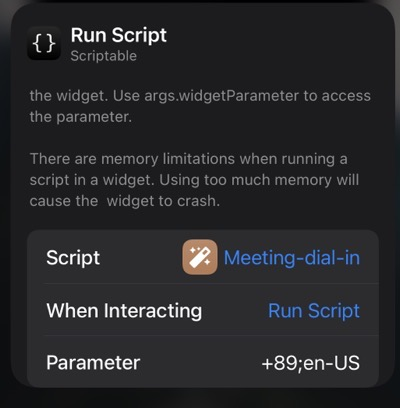
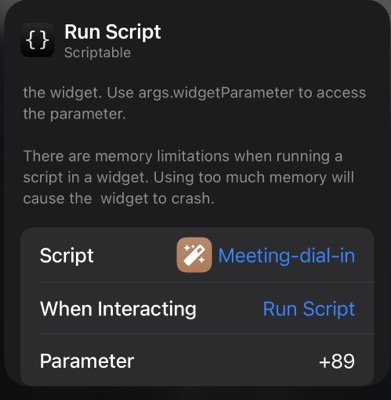
set locale via device local

diff --git a/Meeting-dial-in/Meeting-dial-in.js b/Meeting-dial-in/Meeting-dial-in.js
@@ -1,7 +1,7 @@
 // Variables used by Scriptable.
 // These must be at the very top of the file. Do not edit.
 // icon-color: light-brown; icon-glyph: magic;
-// Version 0.1.0 Beta-Version
+// Version 0.1.1 Beta-Version
 
 /****************************
 Notice
@@ -11,8 +11,8 @@ The search pattern list must be constantly expanded.
 If the dial-in data of a meeting should not be recognized, the invitation can be provided under https://github.com/ThisIsBenny/iOS-Widgets/issues/21, so that the list of search patterns can be extended.
 
 *****************************/
-
-let timeformat, countryCode
+let countryCode
+let timeformat = Device.locale().replace('_', '-')
 
 let widgetInputRAW = args.widgetParameter;
 let widgetInput = null;
@@ -20,13 +20,11 @@ let widgetInput = null;
 if (widgetInputRAW) {
   widgetInput = widgetInputRAW.toString().split(';')
   countryCode = widgetInput[0]
-  timeformat = widgetInput[1] || 'de-DE'
   if (/^\+[\d]{1,3}$/.test(countryCode) === false) {
     throw new Error('Invalid format of country code: ' + countryCode);
   }
 } else {
   countryCode = '+49'
-  timeformat = 'de-DE'
 }
 
 const listLimit = (config.widgetFamily == 'medium') ? 1 : 5;
@@ -41,6 +39,7 @@ if (Device.isUsingDarkAppearance()) {
 let now = new Date()
 let end = new Date()
 end.setHours(23, 59, 59, 999);
+end.setDate(31)
 
 const matchPatterns = {
   skype: {

diff --git a/Meeting-dial-in/README.md b/Meeting-dial-in/README.md
@@ -15,11 +15,6 @@ The following services are currently supported:
 Via the widget parameters the country code has to be set. This code has to start with a +. Example: +49
 The country code is needed in case several international phone numbers are found (please check notice 1, because a country code does not automatically mean that the phone number is found).
 
-### Optional
-By default, the german date format will be used: DD.MM.YYYY, HH:mm
-
-To use a different format, the format has to be set to the widget parameter. The format has to be separated from the country code with a ;
-
 ![Meeting dial in Widget setup](https://raw.githubusercontent.com/ThisIsBenny/iOS-Widgets/main/Meeting-dial-in/setup.jpeg)
 
 ## Notice 1
